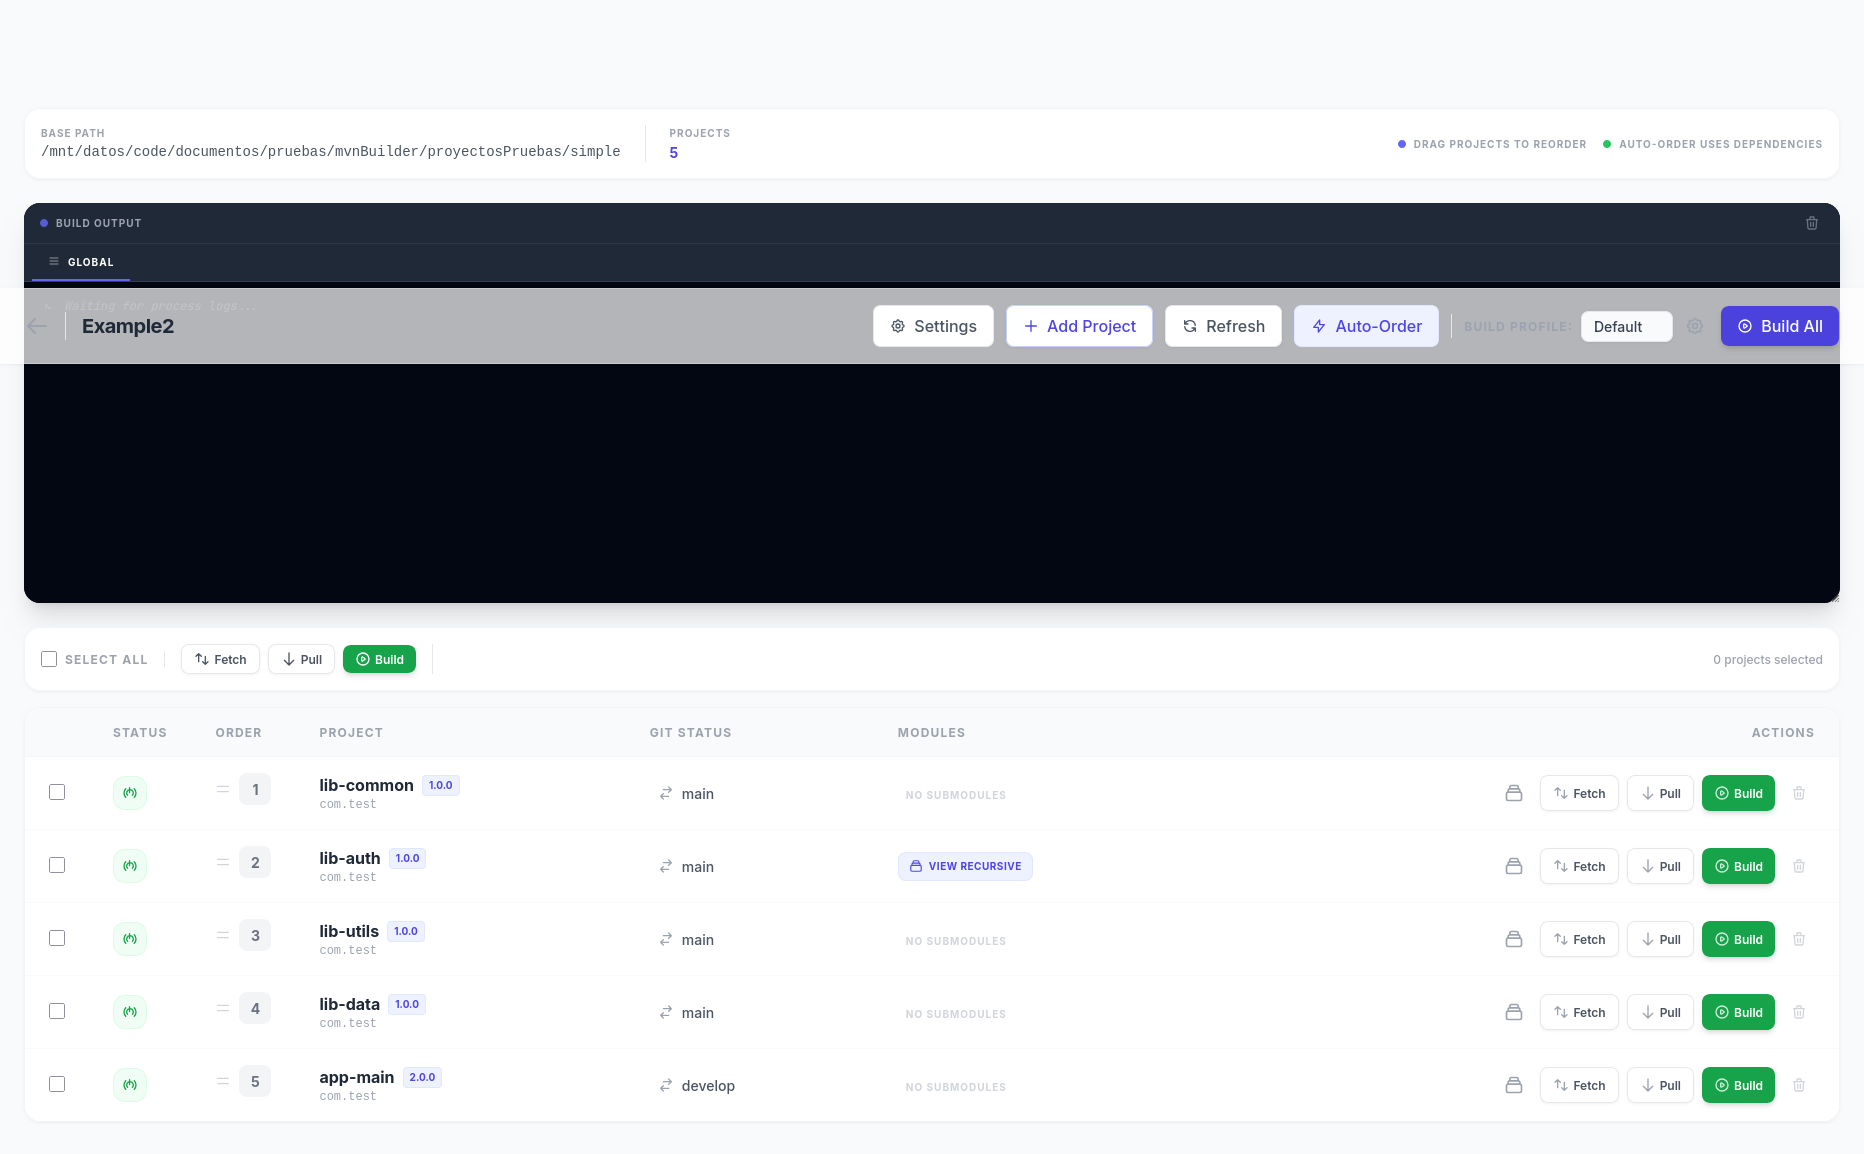
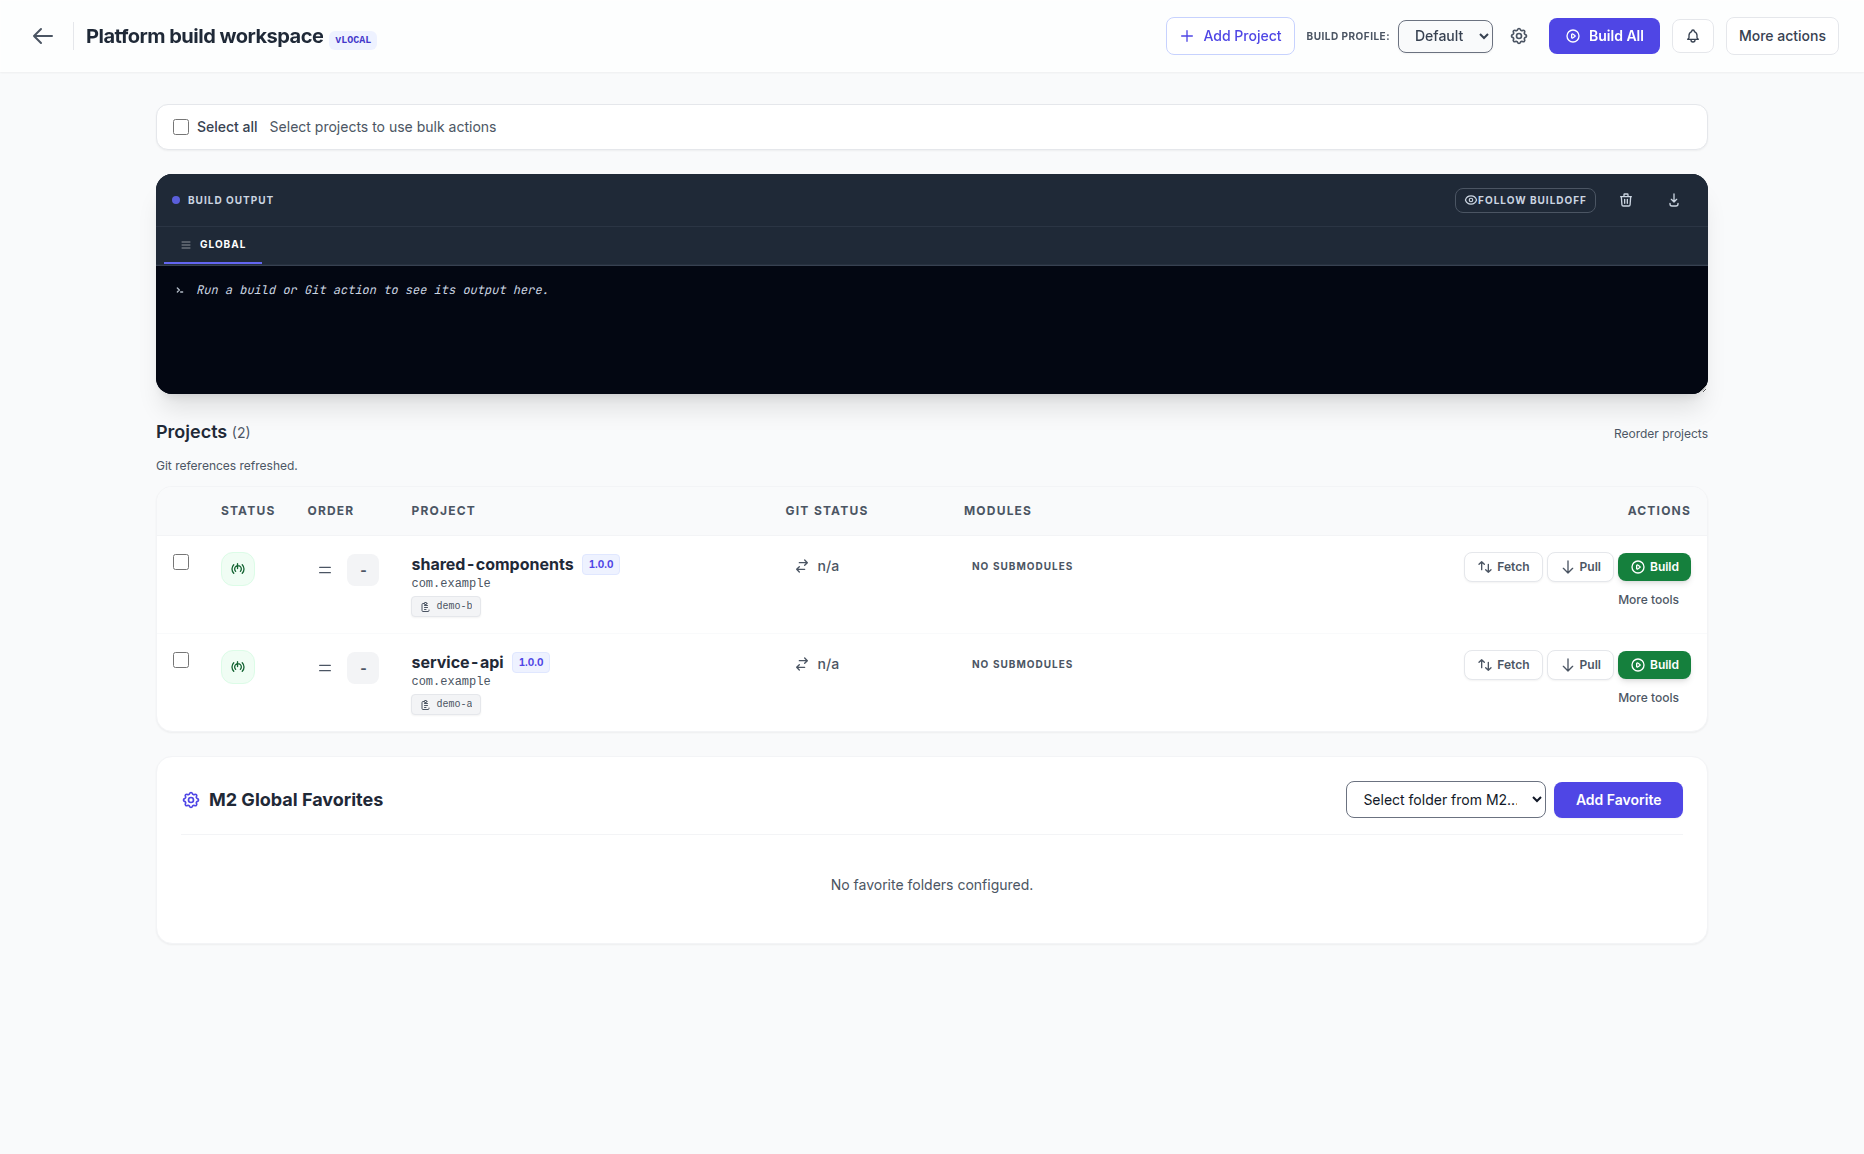
docs: refresh README screenshots and add responsive gallery

diff --git a/README.md b/README.md
@@ -26,6 +26,17 @@ MvnBuilder is a robust administrative dashboard designed to manage complex Maven
 - **Bulk Actions**: Perform Git Fetch, Pull, or Maven Build on multiple selected projects simultaneously.
 - **Drag & Drop Reordering**: Manually override the build order using an intuitive interactive list.
 
+### 📱 Responsive Design
+MvnBuilder adapts to desktop, tablet, and mobile screens.
+
+| Desktop | Tablet |
+| --- | --- |
+| ![Desktop layout](img/adapt-desktop.jpg) | ![Tablet layout](img/adapt-tablet.jpg) |
+
+| Mobile explorer | Mobile view |
+| --- | --- |
+| ![Mobile explorer](img/adapt-mobile-explorer.jpg) | ![Mobile view](img/mobile-view.jpg) |
+
 ---
 
 ## 🤖 Built with AI
